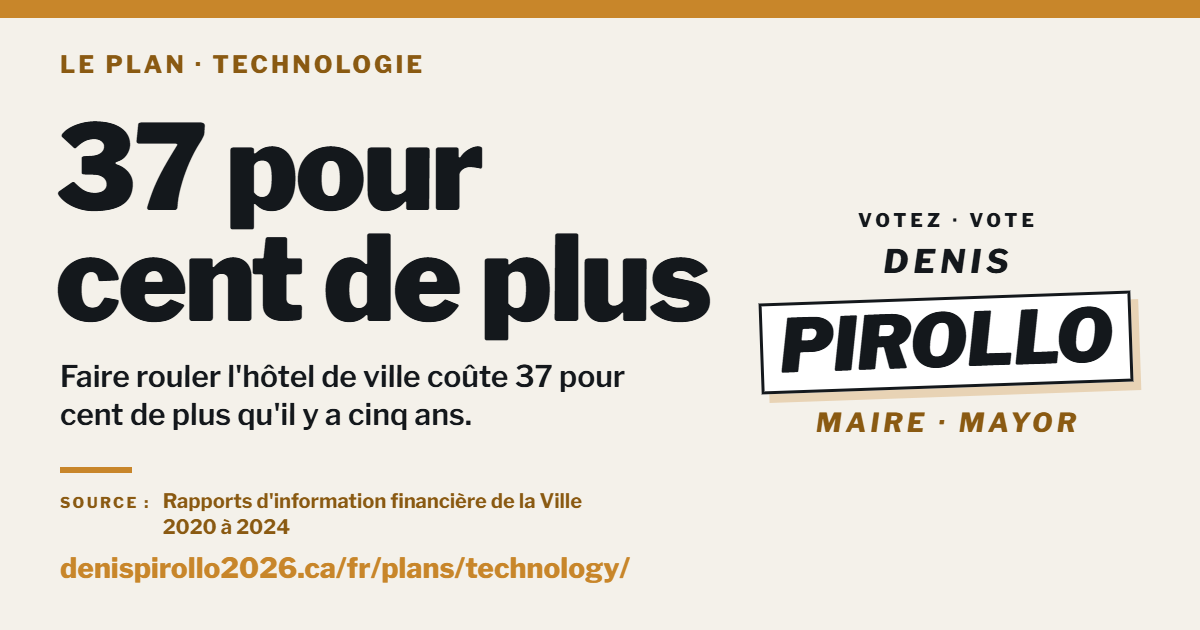
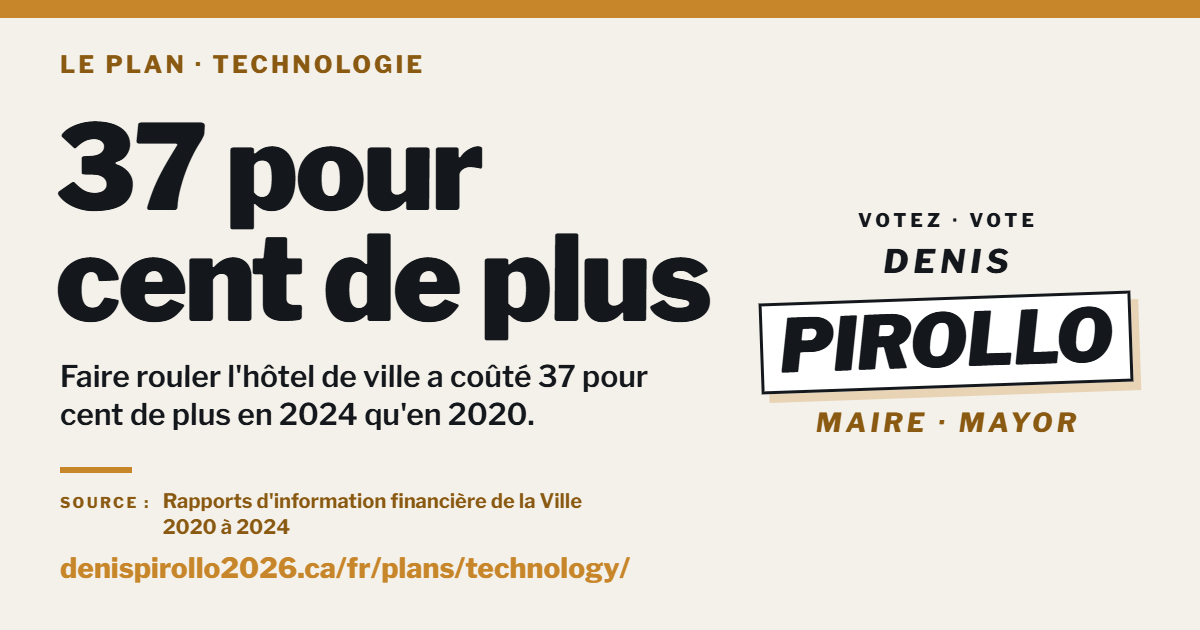
Technology page: the 37 percent names its own years, 2020 to 2024 (register row T1), EN and FR; home card, feeds, share images (2026-10-23)

Changed region(s): [[0.185, 0.573, 0.555, 0.6937]]

diff --git a/fr/plans/technology/index.html b/fr/plans/technology/index.html
@@ -4,7 +4,7 @@
 <meta charset="utf-8">
 <meta name="viewport" content="width=device-width, initial-scale=1">
 <title>Audit des processus de l&#x27;hôtel de ville de Hawkesbury · Denis Pirollo</title>
-<meta name="description" content="Faire rouler l&#x27;hôtel de ville coûte 37 pour cent de plus qu&#x27;il y a cinq ans. Pis aucune ligne dans les livres ne dit ce que la technologie coûte. L&#x27;audit qui compte les heures, les services qui passent en ligne, pis un comptoir qui reste ouvert.">
+<meta name="description" content="Faire rouler l&#x27;hôtel de ville a coûté 37 pour cent de plus en 2024 qu&#x27;en 2020. Pis aucune ligne dans les livres ne dit ce que la technologie coûte. L&#x27;audit qui compte les heures, les services qui passent en ligne, pis un comptoir qui reste ouvert.">
 <link rel="canonical" href="https://denispirollo2026.ca/fr/plans/technology/">
 <link rel="alternate" hreflang="en-CA" href="https://denispirollo2026.ca/plans/technology/">
 <link rel="alternate" hreflang="fr-CA" href="https://denispirollo2026.ca/fr/plans/technology/">
@@ -20,20 +20,20 @@
 <meta property="og:type" content="article">
 <meta property="og:site_name" content="Denis Pirollo, candidat à la mairie de Hawkesbury">
 <meta property="og:title" content="Audit des processus de l&#x27;hôtel de ville de Hawkesbury · Denis Pirollo">
-<meta property="og:description" content="Faire rouler l&#x27;hôtel de ville coûte 37 pour cent de plus qu&#x27;il y a cinq ans. Pis aucune ligne dans les livres ne dit ce que la technologie coûte. L&#x27;audit qui compte les heures, les services qui passent en ligne, pis un comptoir qui reste ouvert.">
+<meta property="og:description" content="Faire rouler l&#x27;hôtel de ville a coûté 37 pour cent de plus en 2024 qu&#x27;en 2020. Pis aucune ligne dans les livres ne dit ce que la technologie coûte. L&#x27;audit qui compte les heures, les services qui passent en ligne, pis un comptoir qui reste ouvert.">
 <meta property="og:url" content="https://denispirollo2026.ca/fr/plans/technology/">
 <meta property="og:image" content="https://denispirollo2026.ca/assets/share/technology-fr.png">
 <meta property="og:image:width" content="1200">
 <meta property="og:image:height" content="630">
-<meta property="og:image:alt" content="37 pour cent de plus Faire rouler l&#x27;hôtel de ville coûte 37 pour cent de plus qu&#x27;il y a cinq ans. Denis Pirollo">
+<meta property="og:image:alt" content="37 pour cent de plus Faire rouler l&#x27;hôtel de ville a coûté 37 pour cent de plus en 2024 qu&#x27;en 2020. Denis Pirollo">
 <meta property="og:locale" content="fr_CA">
 <meta property="og:locale:alternate" content="en_CA">
-<meta property="article:modified_time" content="2026-10-17">
+<meta property="article:modified_time" content="2026-10-23">
 <meta name="twitter:card" content="summary_large_image">
 <meta name="twitter:title" content="Audit des processus de l&#x27;hôtel de ville de Hawkesbury · Denis Pirollo">
-<meta name="twitter:description" content="Faire rouler l&#x27;hôtel de ville coûte 37 pour cent de plus qu&#x27;il y a cinq ans. Pis aucune ligne dans les livres ne dit ce que la technologie coûte. L&#x27;audit qui compte les heures, les services qui passent en ligne, pis un comptoir qui reste ouvert.">
+<meta name="twitter:description" content="Faire rouler l&#x27;hôtel de ville a coûté 37 pour cent de plus en 2024 qu&#x27;en 2020. Pis aucune ligne dans les livres ne dit ce que la technologie coûte. L&#x27;audit qui compte les heures, les services qui passent en ligne, pis un comptoir qui reste ouvert.">
 <meta name="twitter:image" content="https://denispirollo2026.ca/assets/share/technology-fr.png">
-<script type="application/ld+json">{"@context":"https://schema.org","@graph":[{"@type":"Article","@id":"https://denispirollo2026.ca/fr/plans/technology/#article","headline":"L'hôtel de ville coûte 37 pour cent de plus qu'il y a cinq ans. L'audit qui va nous dire pourquoi.","inLanguage":"fr-CA","dateModified":"2026-10-17","image":"https://denispirollo2026.ca/assets/denis-pirollo-hawkesbury-860.jpg","mainEntityOfPage":"https://denispirollo2026.ca/fr/plans/technology/","author":{"@type":"Person","@id":"https://denispirollo2026.ca/#denis-pirollo","name":"Denis Pirollo","url":"https://denispirollo2026.ca/"}},{"@type":"BreadcrumbList","itemListElement":[{"@type":"ListItem","position":1,"name":"Denis Pirollo","item":"https://denispirollo2026.ca/fr/"},{"@type":"ListItem","position":2,"name":"Audit des processus de l'hôtel de ville de Hawkesbury","item":"https://denispirollo2026.ca/fr/plans/technology/"}]}]}</script>
+<script type="application/ld+json">{"@context":"https://schema.org","@graph":[{"@type":"Article","@id":"https://denispirollo2026.ca/fr/plans/technology/#article","headline":"L'hôtel de ville a coûté 37 pour cent de plus en 2024 qu'en 2020. L'audit qui va nous dire pourquoi.","inLanguage":"fr-CA","dateModified":"2026-10-23","image":"https://denispirollo2026.ca/assets/denis-pirollo-hawkesbury-860.jpg","mainEntityOfPage":"https://denispirollo2026.ca/fr/plans/technology/","author":{"@type":"Person","@id":"https://denispirollo2026.ca/#denis-pirollo","name":"Denis Pirollo","url":"https://denispirollo2026.ca/"}},{"@type":"BreadcrumbList","itemListElement":[{"@type":"ListItem","position":1,"name":"Denis Pirollo","item":"https://denispirollo2026.ca/fr/"},{"@type":"ListItem","position":2,"name":"Audit des processus de l'hôtel de ville de Hawkesbury","item":"https://denispirollo2026.ca/fr/plans/technology/"}]}]}</script>
 <style>
 @font-face{font-family:'Libre Franklin';font-style:normal;font-weight:500;font-display:swap;src:url('/assets/fonts/LibreFranklin-500-latin.woff2') format('woff2');unicode-range:U+0000-00FF,U+0131,U+0152-0153,U+02BB-02BC,U+02C6,U+02DA,U+02DC,U+0304,U+0308,U+0329,U+2000-206F,U+2074,U+20AC,U+2122,U+2191,U+2193,U+2212,U+2215,U+FEFF,U+FFFD}
 @font-face{font-family:'Libre Franklin';font-style:normal;font-weight:500;font-display:swap;src:url('/assets/fonts/LibreFranklin-500-latin-ext.woff2') format('woff2');unicode-range:U+0100-02BA,U+02BD-02C5,U+02C7-02CC,U+02CE-02D7,U+02DD-02FF,U+0304,U+0308,U+0329,U+1D00-1DBF,U+1E00-1E9F,U+1EF2-1EFF,U+2020,U+20A0-20AB,U+20AD-20C0,U+2113,U+2C60-2C7F,U+A720-A7FF}
@@ -1593,7 +1593,7 @@ button.pm-lever-btn:focus-visible,.pm-share:focus-visible,.pm-toc summary:focus-
 
 
 
-<section class="article-view active" id="view-technology" data-updated="2026-10-17">
+<section class="article-view active" id="view-technology" data-updated="2026-10-23">
   <div class="wrap art-wrap">
     <a class="art-back" href="/fr/#plans">
       
@@ -1629,11 +1629,11 @@ button.pm-lever-btn:focus-visible,.pm-share:focus-visible,.pm-toc summary:focus-
       </div>
       <h1 class="art-title">
         
-        <span class="lang-fr">L'hôtel de ville coûte 37 pour cent de plus qu'il y a cinq ans. L'audit qui va nous dire pourquoi.</span>
+        <span class="lang-fr">L'hôtel de ville a coûté 37 pour cent de plus en 2024 qu'en 2020. L'audit qui va nous dire pourquoi.</span>
       </h1>
       <p class="art-dek">
         
-        <span class="lang-fr">Faire rouler l'hôtel de ville coûte 37 pour cent de plus qu'il y a cinq ans. Pis pas une ligne dans les livres de la Ville ne peut dire ce que notre technologie coûte ou économise. Voici le plan. Il compte les heures, met de vrais services en ligne, pis barre les portes comme il faut. Le comptoir reste ouvert, avec une personne qui répond au téléphone.</span>
+        <span class="lang-fr">Faire rouler l'hôtel de ville a coûté 37 pour cent de plus en 2024 qu'en 2020. Pis pas une ligne dans les livres de la Ville ne peut dire ce que notre technologie coûte ou économise. Voici le plan. Il compte les heures, met de vrais services en ligne, pis barre les portes comme il faut. Le comptoir reste ouvert, avec une personne qui répond au téléphone.</span>
       </p>
       <div class="art-byline">
         
@@ -1650,7 +1650,7 @@ button.pm-lever-btn:focus-visible,.pm-share:focus-visible,.pm-toc summary:focus-
       <div class="sixty-lab"><span class="lang-fr">En soixante secondes</span></div>
       <dl>
         <dt><span class="lang-fr">Le chiffre</span></dt>
-        <dd><span class="lang-fr">Faire rouler l'hôtel de ville coûte 37 pour cent de plus qu'il y a cinq ans, pis aucune ligne des livres ne dit ce que la technologie coûte ou économise.</span></dd>
+        <dd><span class="lang-fr">Faire rouler l'hôtel de ville a coûté 37 pour cent de plus en 2024 qu'en 2020, pis aucune ligne des livres ne dit ce que la technologie coûte ou économise.</span></dd>
         <dt><span class="lang-fr">Le levier</span></dt>
         <dd><span class="lang-fr">Compter les heures d'abord avec un audit des processus, finir la job que l'application a commencée, pis barrer les portes comme il faut avant tout le reste.</span></dd>
         <dt><span class="lang-fr">Le vote</span></dt>
@@ -1714,7 +1714,7 @@ button.pm-lever-btn:focus-visible,.pm-share:focus-visible,.pm-toc summary:focus-
       </h2>
       <p>
         
-        <span class="lang-fr">La Ville déclare ses finances à la province chaque année. Une ligne s'appelle administration générale. Cette ligne-là, c'est le coût de faire rouler l'administration elle-même. Elle est passée d'<span class="hl">un peu plus de 2,5 millions</span> en 2020 à <span class="hl">presque 3,5 millions</span> en 2024. Ça fait 37 pour cent en cinq ans, avec un bond de 20,5 pour cent rien qu'en 2024. Là-dedans, combien on dépense pour notre technologie, pis combien elle nous fait économiser? Allez voir : six ans de rapports à la province, tout le budget par service, chaque catégorie de dépense. <b class="pop">Il n'y a pas de ligne technologie.</b> Le point 5 de ma plateforme ouvre les livres financiers. Ce plan-ci part le chronomètre.</span>
+        <span class="lang-fr">La Ville déclare ses finances à la province chaque année. Une ligne s'appelle administration générale. Cette ligne-là, c'est le coût de faire rouler l'administration elle-même. Elle est passée d'<span class="hl">un peu plus de 2,5 millions</span> en 2020 à <span class="hl">presque 3,5 millions</span> en 2024. Ça fait une hausse de 37 pour cent, avec un bond de 20,5 pour cent rien qu'en 2024. Là-dedans, combien on dépense pour notre technologie, pis combien elle nous fait économiser? Allez voir : six ans de rapports à la province, tout le budget par service, chaque catégorie de dépense. <b class="pop">Il n'y a pas de ligne technologie.</b> Le point 5 de ma plateforme ouvre les livres financiers. Ce plan-ci part le chronomètre.</span>
       </p>
 
       <figure class="tally">

diff --git a/plans/technology/index.html b/plans/technology/index.html
@@ -4,7 +4,7 @@
 <meta charset="utf-8">
 <meta name="viewport" content="width=device-width, initial-scale=1">
 <title>Town Hall process audit for Hawkesbury · Denis Pirollo</title>
-<meta name="description" content="Running Town Hall costs 37 percent more than five years ago. No line in the books says what technology costs. The audit that counts the hours, the services going online, and a counter that stays open.">
+<meta name="description" content="Running Town Hall cost 37 percent more in 2024 than in 2020. No line in the books says what technology costs. The audit that counts the hours, the services going online, and a counter that stays open.">
 <link rel="canonical" href="https://denispirollo2026.ca/plans/technology/">
 <link rel="alternate" hreflang="en-CA" href="https://denispirollo2026.ca/plans/technology/">
 <link rel="alternate" hreflang="fr-CA" href="https://denispirollo2026.ca/fr/plans/technology/">
@@ -20,20 +20,20 @@
 <meta property="og:type" content="article">
 <meta property="og:site_name" content="Denis Pirollo for Mayor of Hawkesbury">
 <meta property="og:title" content="Town Hall process audit for Hawkesbury · Denis Pirollo">
-<meta property="og:description" content="Running Town Hall costs 37 percent more than five years ago. No line in the books says what technology costs. The audit that counts the hours, the services going online, and a counter that stays open.">
+<meta property="og:description" content="Running Town Hall cost 37 percent more in 2024 than in 2020. No line in the books says what technology costs. The audit that counts the hours, the services going online, and a counter that stays open.">
 <meta property="og:url" content="https://denispirollo2026.ca/plans/technology/">
 <meta property="og:image" content="https://denispirollo2026.ca/assets/share/technology.png">
 <meta property="og:image:width" content="1200">
 <meta property="og:image:height" content="630">
-<meta property="og:image:alt" content="37 percent more Running Town Hall costs 37 percent more than it did five years ago. Denis Pirollo">
+<meta property="og:image:alt" content="37 percent more Running Town Hall cost 37 percent more in 2024 than in 2020. Denis Pirollo">
 <meta property="og:locale" content="en_CA">
 <meta property="og:locale:alternate" content="fr_CA">
-<meta property="article:modified_time" content="2026-10-17">
+<meta property="article:modified_time" content="2026-10-23">
 <meta name="twitter:card" content="summary_large_image">
 <meta name="twitter:title" content="Town Hall process audit for Hawkesbury · Denis Pirollo">
-<meta name="twitter:description" content="Running Town Hall costs 37 percent more than five years ago. No line in the books says what technology costs. The audit that counts the hours, the services going online, and a counter that stays open.">
+<meta name="twitter:description" content="Running Town Hall cost 37 percent more in 2024 than in 2020. No line in the books says what technology costs. The audit that counts the hours, the services going online, and a counter that stays open.">
 <meta name="twitter:image" content="https://denispirollo2026.ca/assets/share/technology.png">
-<script type="application/ld+json">{"@context":"https://schema.org","@graph":[{"@type":"Article","@id":"https://denispirollo2026.ca/plans/technology/#article","headline":"Town Hall costs 37 percent more than five years ago. The audit that finds out why.","inLanguage":"en-CA","dateModified":"2026-10-17","image":"https://denispirollo2026.ca/assets/denis-pirollo-hawkesbury-860.jpg","mainEntityOfPage":"https://denispirollo2026.ca/plans/technology/","author":{"@type":"Person","@id":"https://denispirollo2026.ca/#denis-pirollo","name":"Denis Pirollo","url":"https://denispirollo2026.ca/"}},{"@type":"BreadcrumbList","itemListElement":[{"@type":"ListItem","position":1,"name":"Denis Pirollo","item":"https://denispirollo2026.ca/"},{"@type":"ListItem","position":2,"name":"Town Hall process audit for Hawkesbury","item":"https://denispirollo2026.ca/plans/technology/"}]}]}</script>
+<script type="application/ld+json">{"@context":"https://schema.org","@graph":[{"@type":"Article","@id":"https://denispirollo2026.ca/plans/technology/#article","headline":"Town Hall cost 37 percent more in 2024 than in 2020. The audit that finds out why.","inLanguage":"en-CA","dateModified":"2026-10-23","image":"https://denispirollo2026.ca/assets/denis-pirollo-hawkesbury-860.jpg","mainEntityOfPage":"https://denispirollo2026.ca/plans/technology/","author":{"@type":"Person","@id":"https://denispirollo2026.ca/#denis-pirollo","name":"Denis Pirollo","url":"https://denispirollo2026.ca/"}},{"@type":"BreadcrumbList","itemListElement":[{"@type":"ListItem","position":1,"name":"Denis Pirollo","item":"https://denispirollo2026.ca/"},{"@type":"ListItem","position":2,"name":"Town Hall process audit for Hawkesbury","item":"https://denispirollo2026.ca/plans/technology/"}]}]}</script>
 <style>
 @font-face{font-family:'Libre Franklin';font-style:normal;font-weight:500;font-display:swap;src:url('/assets/fonts/LibreFranklin-500-latin.woff2') format('woff2');unicode-range:U+0000-00FF,U+0131,U+0152-0153,U+02BB-02BC,U+02C6,U+02DA,U+02DC,U+0304,U+0308,U+0329,U+2000-206F,U+2074,U+20AC,U+2122,U+2191,U+2193,U+2212,U+2215,U+FEFF,U+FFFD}
 @font-face{font-family:'Libre Franklin';font-style:normal;font-weight:500;font-display:swap;src:url('/assets/fonts/LibreFranklin-500-latin-ext.woff2') format('woff2');unicode-range:U+0100-02BA,U+02BD-02C5,U+02C7-02CC,U+02CE-02D7,U+02DD-02FF,U+0304,U+0308,U+0329,U+1D00-1DBF,U+1E00-1E9F,U+1EF2-1EFF,U+2020,U+20A0-20AB,U+20AD-20C0,U+2113,U+2C60-2C7F,U+A720-A7FF}
@@ -1593,7 +1593,7 @@ button.pm-lever-btn:focus-visible,.pm-share:focus-visible,.pm-toc summary:focus-
 
 
 
-<section class="article-view active" id="view-technology" data-updated="2026-10-17">
+<section class="article-view active" id="view-technology" data-updated="2026-10-23">
   <div class="wrap art-wrap">
     <a class="art-back" href="/#plans">
       <span class="lang-en">&larr; Back to the site</span>
@@ -1628,11 +1628,11 @@ button.pm-lever-btn:focus-visible,.pm-share:focus-visible,.pm-toc summary:focus-
         
       </div>
       <h1 class="art-title">
-        <span class="lang-en">Town Hall costs 37 percent more than five years ago. The audit that finds out why.</span>
+        <span class="lang-en">Town Hall cost 37 percent more in 2024 than in 2020. The audit that finds out why.</span>
         
       </h1>
       <p class="art-dek">
-        <span class="lang-en">Running Town Hall costs 37 percent more than it did five years ago. And no line in the Town's books can say what our technology costs or saves. Here is the plan. It counts the hours, puts real services online, and locks the doors properly. And the counter stays open, with a person on the phone.</span>
+        <span class="lang-en">Running Town Hall cost 37 percent more in 2024 than in 2020. And no line in the Town's books can say what our technology costs or saves. Here is the plan. It counts the hours, puts real services online, and locks the doors properly. And the counter stays open, with a person on the phone.</span>
         
       </p>
       <div class="art-byline">
@@ -1650,7 +1650,7 @@ button.pm-lever-btn:focus-visible,.pm-share:focus-visible,.pm-toc summary:focus-
       <div class="sixty-lab"><span class="lang-en">Sixty seconds</span></div>
       <dl>
         <dt><span class="lang-en">The number</span></dt>
-        <dd><span class="lang-en">Running Town Hall costs 37 percent more than it did five years ago, and no line in the books says what technology costs or saves.</span></dd>
+        <dd><span class="lang-en">Running Town Hall cost 37 percent more in 2024 than in 2020, and no line in the books says what technology costs or saves.</span></dd>
         <dt><span class="lang-en">The lever</span></dt>
         <dd><span class="lang-en">Count the hours first with a process audit, finish the job the app started, and lock the doors properly before anything else.</span></dd>
         <dt><span class="lang-en">The vote</span></dt>
@@ -1713,7 +1713,7 @@ button.pm-lever-btn:focus-visible,.pm-share:focus-visible,.pm-toc summary:focus-
         
       </h2>
       <p>
-        <span class="lang-en">The Town reports its finances to the province every year. One line is called general government. That line is the cost of running the administration itself. It went from <span class="hl">just over $2.5 million</span> in 2020 to <span class="hl">almost $3.5 million</span> in 2024. That is 37 percent in five years, with a 20.5 percent jump in 2024 alone. Out of that money, what do we spend on our technology, and what does it save us? Go looking: six years of reports to the province, the whole department budget, every spending category. <b class="pop">There is no technology line.</b> Point 5 of my platform opens the financial books. This plan opens the stopwatch.</span>
+        <span class="lang-en">The Town reports its finances to the province every year. One line is called general government. That line is the cost of running the administration itself. It went from <span class="hl">just over $2.5 million</span> in 2020 to <span class="hl">almost $3.5 million</span> in 2024. That is a 37 percent increase, with a 20.5 percent jump in 2024 alone. Out of that money, what do we spend on our technology, and what does it save us? Go looking: six years of reports to the province, the whole department budget, every spending category. <b class="pop">There is no technology line.</b> Point 5 of my platform opens the financial books. This plan opens the stopwatch.</span>
         
       </p>
 

diff --git a/fr/index.html b/fr/index.html
@@ -1640,8 +1640,8 @@
       <a class="post-row" href="/fr/plans/technology/">
         <div class="post-date"><span class="lang-fr">Texte de fond</span></div>
         <div>
-          <div class="post-title live"><span class="lang-fr">L'hôtel de ville coûte 37 pour cent de plus qu'il y a cinq ans. L'audit qui va nous dire pourquoi.</span></div>
-          <div class="post-excerpt"><span class="lang-fr">Faire rouler l'hôtel de ville coûte 37 pour cent de plus qu'il y a cinq ans. Pis aucune ligne dans les livres ne dit ce que la technologie coûte. L'audit qui compte les heures, les services qui passent en ligne, pis un comptoir qui reste ouvert.</span></div>
+          <div class="post-title live"><span class="lang-fr">L'hôtel de ville a coûté 37 pour cent de plus en 2024 qu'en 2020. L'audit qui va nous dire pourquoi.</span></div>
+          <div class="post-excerpt"><span class="lang-fr">Faire rouler l'hôtel de ville a coûté 37 pour cent de plus en 2024 qu'en 2020. Pis aucune ligne dans les livres ne dit ce que la technologie coûte. L'audit qui compte les heures, les services qui passent en ligne, pis un comptoir qui reste ouvert.</span></div>
         </div>
         <div class="post-cta"><span class="lang-fr">Lire le plan</span></div>
               <div class="post-art"><svg class="lr-art" viewBox="0 0 96 96" aria-hidden="true" focusable="false" xmlns="http://www.w3.org/2000/svg"><rect x="11" y="13" width="80" height="78" fill="var(--accent,#C8862A)" opacity=".3"/><rect x="5" y="5" width="80" height="78" fill="var(--plate,#FFFFFF)" stroke="var(--ink,#14181C)" stroke-width="3"/><g class="lr-d"><g transform="rotate(-2 45 44)"><rect class="ls-tv" style="--d:.15s" x="21" y="24" width="52" height="36" fill="var(--paper,#F4F1EA)" stroke="var(--ink,#14181C)" stroke-width="3"/><path class="ls-draw" style="--d:.55s" pathLength="1" d="M33 43 l9 9 17 -20" fill="none" stroke="var(--accent-deep,#8A5A12)" stroke-width="4" stroke-linecap="round" stroke-linejoin="round"/><line class="ls-up" x1="47" y1="60" x2="47" y2="69" stroke="var(--ink,#14181C)" stroke-width="3"/><line class="ls-widen" x1="34" y1="70" x2="60" y2="70" stroke="var(--ink,#14181C)" stroke-width="3" stroke-linecap="round"/></g></g></svg></div>

diff --git a/index.html b/index.html
@@ -1640,8 +1640,8 @@
       <a class="post-row" href="/plans/technology/">
         <div class="post-date"><span class="lang-en">Long read</span></div>
         <div>
-          <div class="post-title live"><span class="lang-en">Town Hall costs 37 percent more than five years ago. The audit that finds out why.</span></div>
-          <div class="post-excerpt"><span class="lang-en">Running Town Hall costs 37 percent more than five years ago. No line in the books says what technology costs. The audit that counts the hours, the services going online, and a counter that stays open.</span></div>
+          <div class="post-title live"><span class="lang-en">Town Hall cost 37 percent more in 2024 than in 2020. The audit that finds out why.</span></div>
+          <div class="post-excerpt"><span class="lang-en">Running Town Hall cost 37 percent more in 2024 than in 2020. No line in the books says what technology costs. The audit that counts the hours, the services going online, and a counter that stays open.</span></div>
         </div>
         <div class="post-cta"><span class="lang-en">Read the plan</span></div>
               <div class="post-art"><svg class="lr-art" viewBox="0 0 96 96" aria-hidden="true" focusable="false" xmlns="http://www.w3.org/2000/svg"><rect x="11" y="13" width="80" height="78" fill="var(--accent,#C8862A)" opacity=".3"/><rect x="5" y="5" width="80" height="78" fill="var(--plate,#FFFFFF)" stroke="var(--ink,#14181C)" stroke-width="3"/><g class="lr-d"><g transform="rotate(-2 45 44)"><rect class="ls-tv" style="--d:.15s" x="21" y="24" width="52" height="36" fill="var(--paper,#F4F1EA)" stroke="var(--ink,#14181C)" stroke-width="3"/><path class="ls-draw" style="--d:.55s" pathLength="1" d="M33 43 l9 9 17 -20" fill="none" stroke="var(--accent-deep,#8A5A12)" stroke-width="4" stroke-linecap="round" stroke-linejoin="round"/><line class="ls-up" x1="47" y1="60" x2="47" y2="69" stroke="var(--ink,#14181C)" stroke-width="3"/><line class="ls-widen" x1="34" y1="70" x2="60" y2="70" stroke="var(--ink,#14181C)" stroke-width="3" stroke-linecap="round"/></g></g></svg></div>
